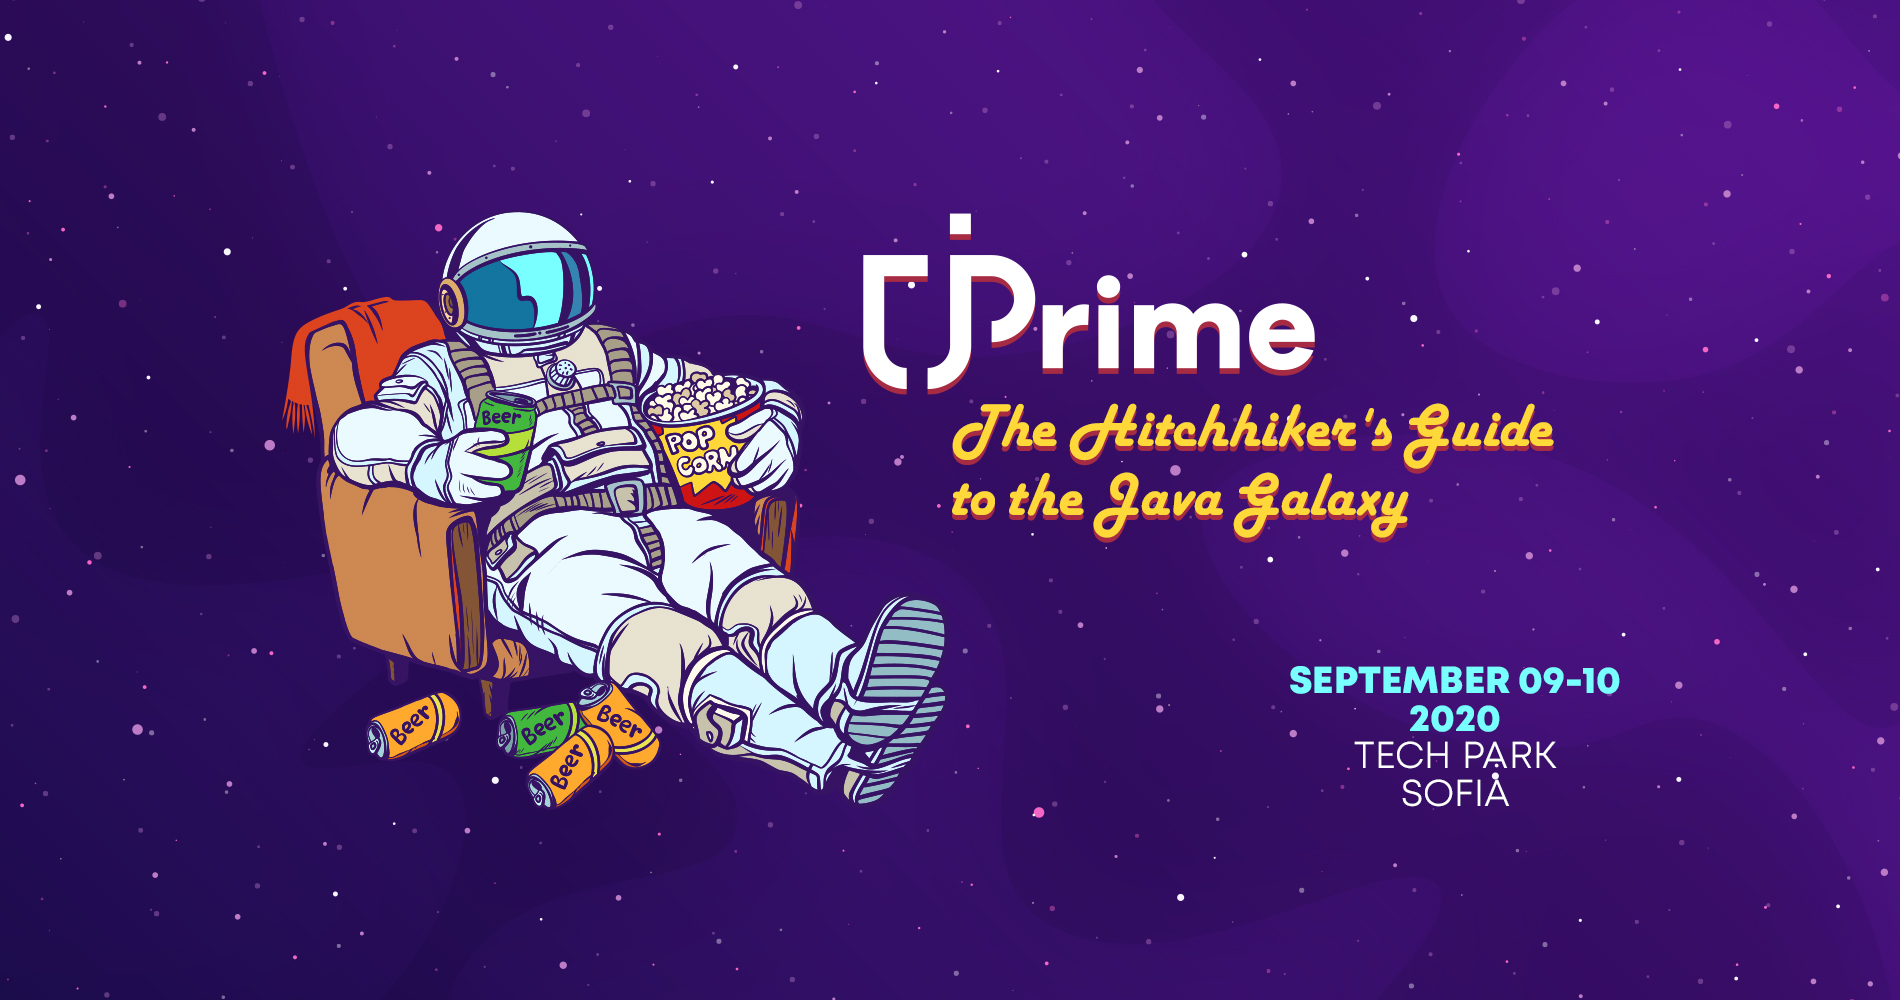
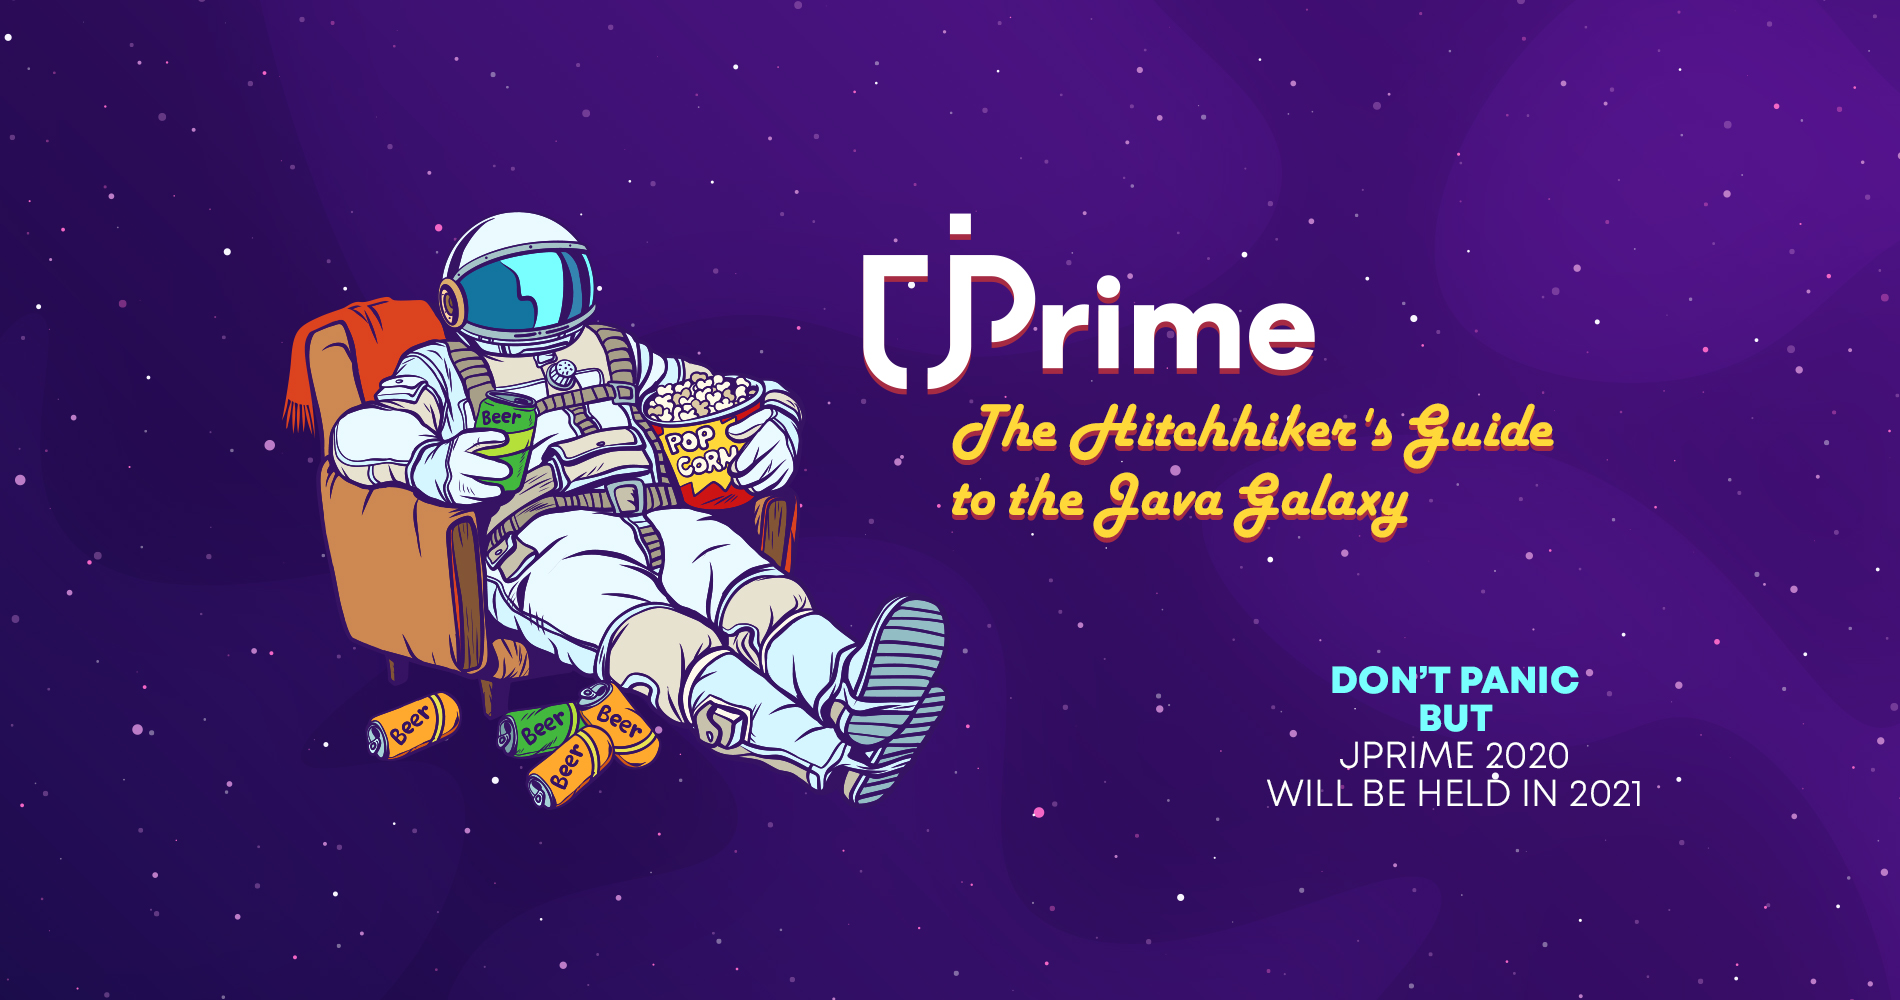
Moving jPrime to 2021

Changed region(s): [[0.6521, 0.651, 0.8695, 0.806]]

diff --git a/src/main/webapp/assets/js/main.js b/src/main/webapp/assets/js/main.js
@@ -19,7 +19,7 @@
     /* ==========================================================================
        countdown timer
        ========================================================================== */
-     jQuery('#clock').countdown('2020/09/09 08:00:00',function(event){
+     jQuery('#clock').countdown('2021/05/18 08:00:00',function(event){
       var $this=jQuery(this).html(event.strftime(''
       +'<div class="time-entry days"><span>%-D</span> Days</div> '
       +'<div class="time-entry hours"><span>%H</span> Hours</div> '

diff --git a/src/main/java/site/controller/TicketsController.java b/src/main/java/site/controller/TicketsController.java
@@ -89,7 +89,7 @@ public class TicketsController {
 			invalidCaptcha = true;
 		}
 		if (bindingResult.hasErrors() || invalidCaptcha) {
-			return TICKETS_REGISTER_JSP;
+			return TICKETS_END_JSP;
 		}
 
         //check empty users, server side validation
